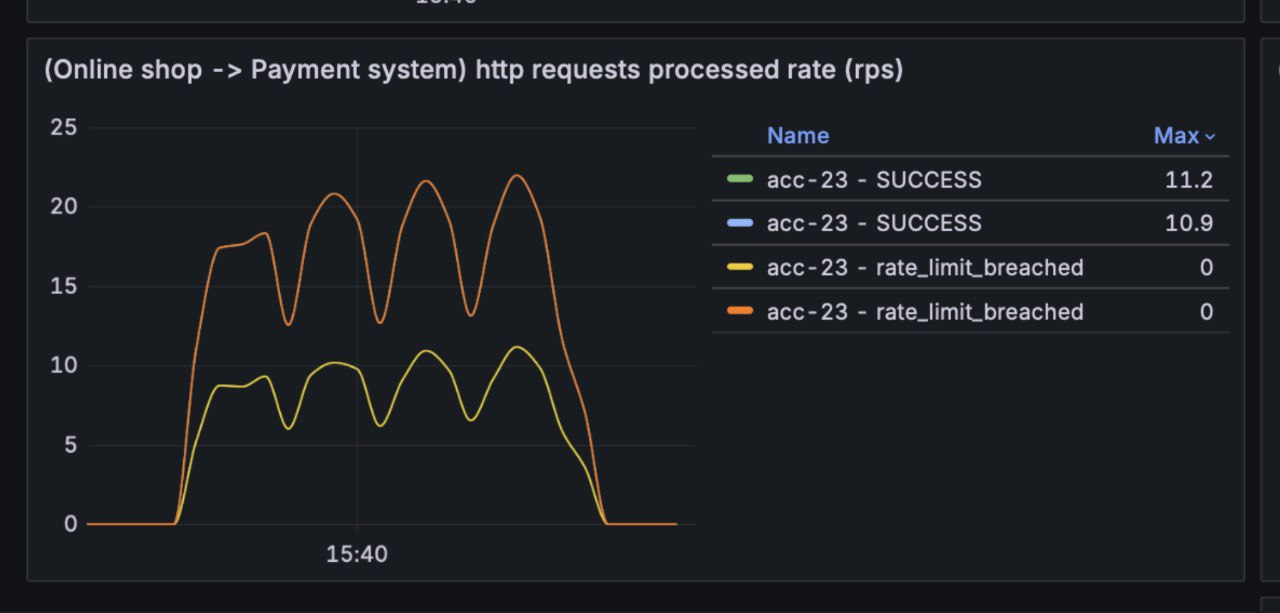
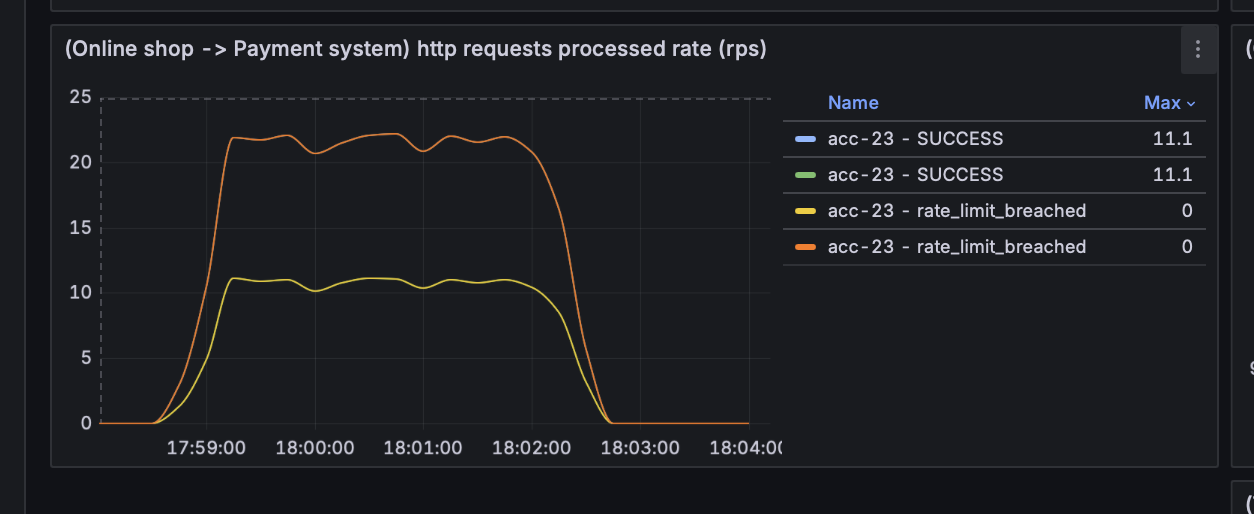
hw-05

diff --git a/src/main/kotlin/ru/quipy/apigateway/APIController.kt b/src/main/kotlin/ru/quipy/apigateway/APIController.kt
@@ -42,20 +42,20 @@ class APIController(
         11, Duration.ofSeconds(1), 30
     )*/
 
+    // Для второго теста мы используем
     // LeakyBucket для стабильного потока
     // TokenBucket для общего бюджета на весь период
-    // CompositeRateLimiter: AND логика - оба лимитера должны разрешить
     private var rateLimiter = CompositeRateLimiter(
         TokenBucketRateLimiter(
-            11,
-            11 * 15,       // 165 capacity — немного мягче
-            1,
-            TimeUnit.SECONDS
+            10,
+            10 * 12,       // 120 capacity — чуть меньше, токены будут быстрее использоваться
+            900,           // каждые 900 мс добавлять 1 токен
+            TimeUnit.MILLISECONDS
         ),
         LeakingBucketRateLimiter(
-            11,
+            10,
             Duration.ofSeconds(1),
-            145             // уменьшили чуть для контроля очереди
+            120            // очередь чуть меньше
         )
     )
 
